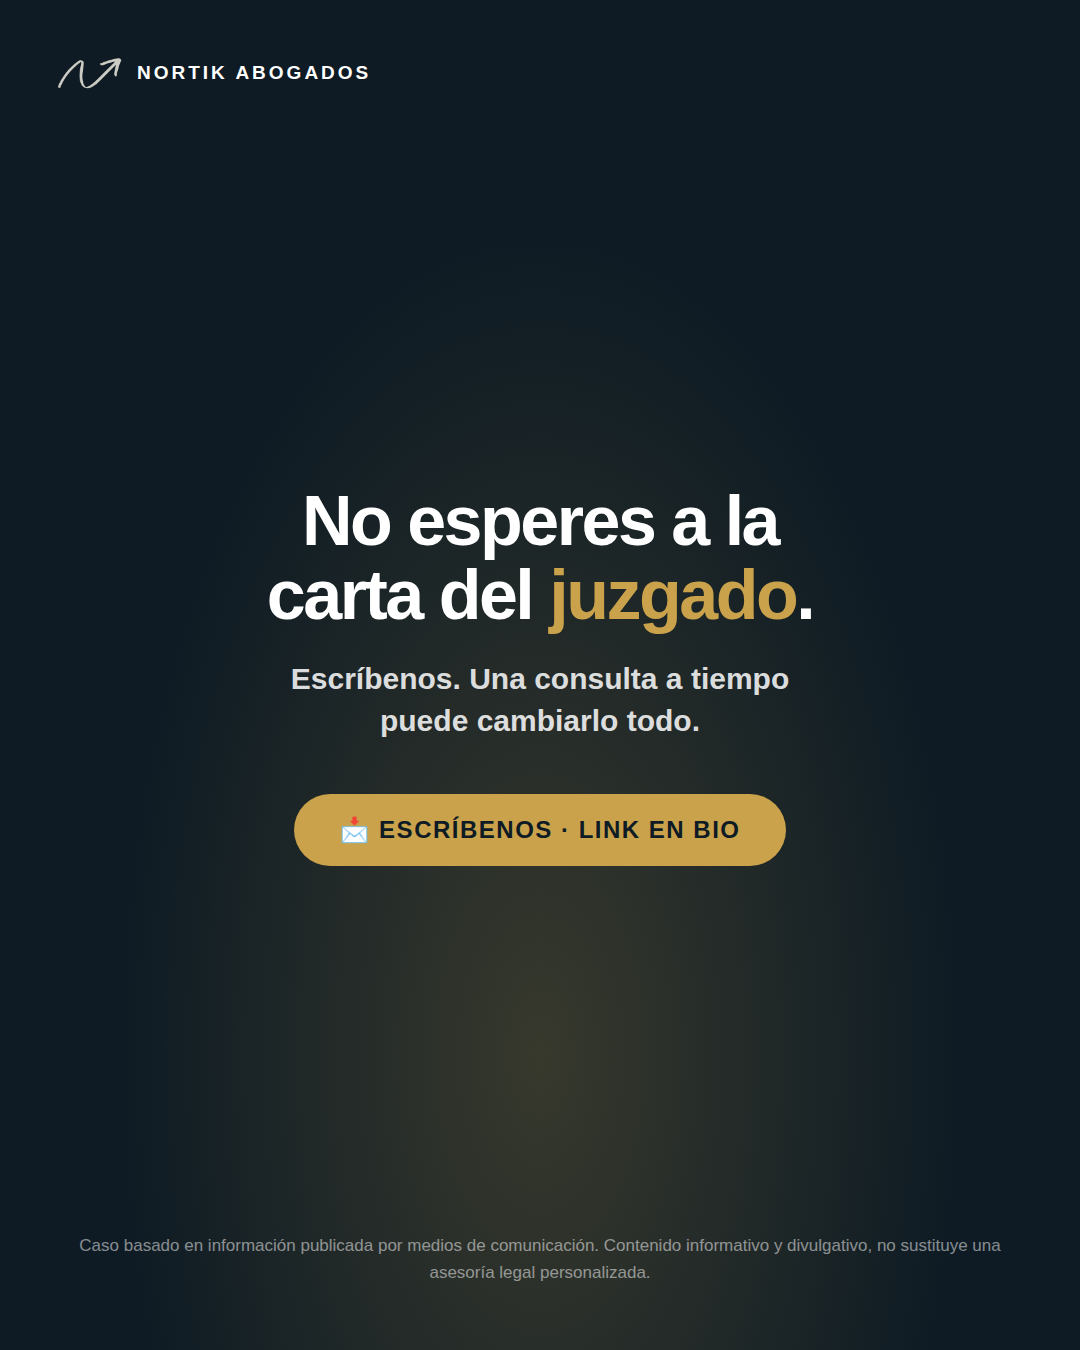
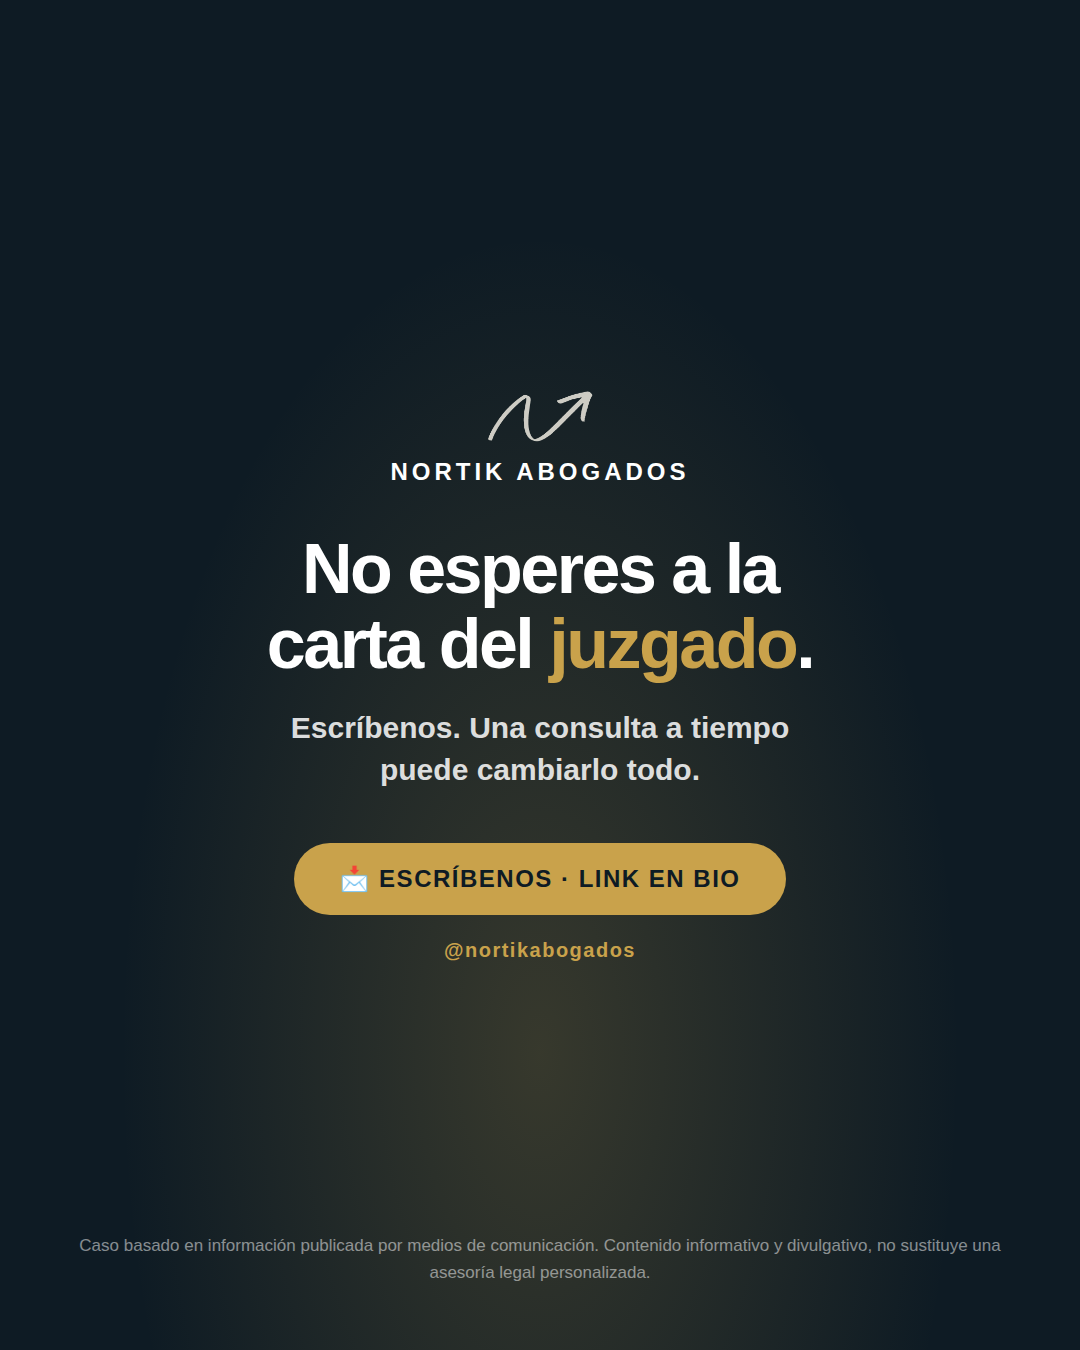
Reforzar marca en el slide final + comparativa de tonos de acento
Slide 8 ahora lleva el logo grande + "NORTIK ABOGADOS" centrado sobre el CTA
y un @nortikabogados debajo del botón, para que quede claro quién publica el
carrusel antes de que la gente salga del contenido. Añade color-test.js, un
script aparte para comparar el dorado actual contra dos alternativas (dorado
más suave/menos naranja, y verde clarito suave) antes de aplicar el cambio
a las 8 slides.

diff --git a/carousel-maricarmen-nortik/color-test.js b/carousel-maricarmen-nortik/color-test.js
@@ -1,0 +1,59 @@
+const { chromium } = require('playwright');
+const path = require('path');
+const fs = require('fs');
+
+const W = 1080, H = 760;
+const INK = '#0E1B24';
+const NAVY = '#1B2E3B';
+const CREAM = '#F4F0E6';
+const FONT = `-apple-system, "Helvetica Neue", Arial, sans-serif`;
+
+const OPTIONS = [
+  { label: 'OPCIÓN A · Dorado suave (menos naranja)', accent: '#C8B25A' },
+  { label: 'OPCIÓN B · Verde clarito suave', accent: '#8FC7A6' },
+  { label: 'ACTUAL · Dorado (el que no convence)', accent: '#C9A24B' },
+];
+
+function card(opt) {
+  return `
+  <div style="flex:1; background:${INK}; padding:40px 34px; display:flex; flex-direction:column; justify-content:space-between;">
+    <div>
+      <div style="color:${opt.accent}; font-weight:900; letter-spacing:2px; font-size:15px; text-transform:uppercase; margin-bottom:16px;">${opt.label}</div>
+      <div style="color:#fff; font-weight:900; font-size:38px; line-height:1.08; letter-spacing:-1px;">A los 87 años,<br>la sacaron de su<br>casa en <span style="color:${opt.accent};">CAMILLA</span>.</div>
+    </div>
+    <div style="background:${NAVY}; border-radius:16px; padding:26px 22px; margin-top:24px;">
+      <div style="display:flex; align-items:center; gap:12px;">
+        <div style="color:#fff; font-weight:900; font-size:30px;">500&nbsp;€</div>
+        <div style="color:${opt.accent}; font-weight:900; font-size:24px;">→</div>
+        <div style="color:${opt.accent}; font-weight:900; font-size:36px;">2.650&nbsp;€</div>
+      </div>
+    </div>
+    <div style="margin-top:24px; background:${opt.accent}; color:${INK}; font-weight:900; letter-spacing:1px; font-size:16px;
+      padding:14px 22px; border-radius:40px; text-align:center;">DESLIZA Y ENTÉRATE →</div>
+    <div style="margin-top:18px; display:flex; align-items:center; gap:10px;">
+      <div style="width:26px; height:14px; border-radius:4px; background:${opt.accent};"></div>
+      <div style="color:rgba(255,255,255,0.5); font-size:13px; font-weight:700; letter-spacing:1px;">${opt.accent}</div>
+    </div>
+  </div>`;
+}
+
+const html = `<html><head><meta charset="utf-8"><style>
+  * { margin:0; padding:0; box-sizing:border-box; }
+  html,body { width:${W}px; height:${H}px; font-family:${FONT}; background:${CREAM}; }
+</style></head><body>
+  <div style="display:flex; width:${W}px; height:${H}px; gap:3px; background:${CREAM};">
+    ${OPTIONS.map(card).join('')}
+  </div>
+</body></html>`;
+
+(async () => {
+  const browser = await chromium.launch({ executablePath: '/opt/pw-browsers/chromium-1194/chrome-linux/chrome', args: ['--no-sandbox'] });
+  const page = await browser.newPage({ viewport: { width: W, height: H } });
+  const tmp = path.join(__dirname, '.tmp_color_test.html');
+  fs.writeFileSync(tmp, html);
+  await page.goto('file://' + tmp, { waitUntil: 'load' });
+  await page.screenshot({ path: path.join(__dirname, 'color_test.png') });
+  await browser.close();
+  fs.rmSync(tmp);
+  console.log('OK color_test.png');
+})();

diff --git a/carousel-maricarmen-nortik/render.js b/carousel-maricarmen-nortik/render.js
@@ -330,14 +330,18 @@ function slide8() {
     .sub { color:rgba(255,255,255,0.86); font-size:30px; font-weight:600; margin-top:26px; line-height:1.4; }
     .btn { margin-top:52px; background:${GOLD}; color:${INK}; font-weight:900; letter-spacing:1.5px; font-size:24px;
       padding:22px 46px; border-radius:50px; }
+    .handle { margin-top:24px; color:${GOLD}; font-weight:800; letter-spacing:1.5px; font-size:20px; }
+    .biglogo { display:flex; flex-direction:column; align-items:center; gap:14px; margin-bottom:46px; }
+    .biglogo .word { font-weight:800; letter-spacing:4px; color:#fff; font-size:24px; }
     .foot { position:absolute; left:70px; right:70px; bottom:64px; z-index:5; text-align:center; }
     .foot p { color:rgba(255,255,255,0.5); font-size:17px; line-height:1.55; }
   </style></head><body><div class="stage">
-    ${brand()}
     <div class="center">
+      <div class="biglogo">${logoMark('light', 56)}<div class="word">NORTIK ABOGADOS</div></div>
       <h1>No esperes a la<br>carta del <span class="hl">juzgado</span>.</h1>
       <div class="sub">Escríbenos. Una consulta a tiempo<br>puede cambiarlo todo.</div>
       <div class="btn">📩 ESCRÍBENOS · LINK EN BIO</div>
+      <div class="handle">@nortikabogados</div>
     </div>
     <div class="foot"><p>Caso basado en información publicada por medios de comunicación. Contenido informativo y divulgativo, no sustituye una asesoría legal personalizada.</p></div>
   </div></body></html>`;
